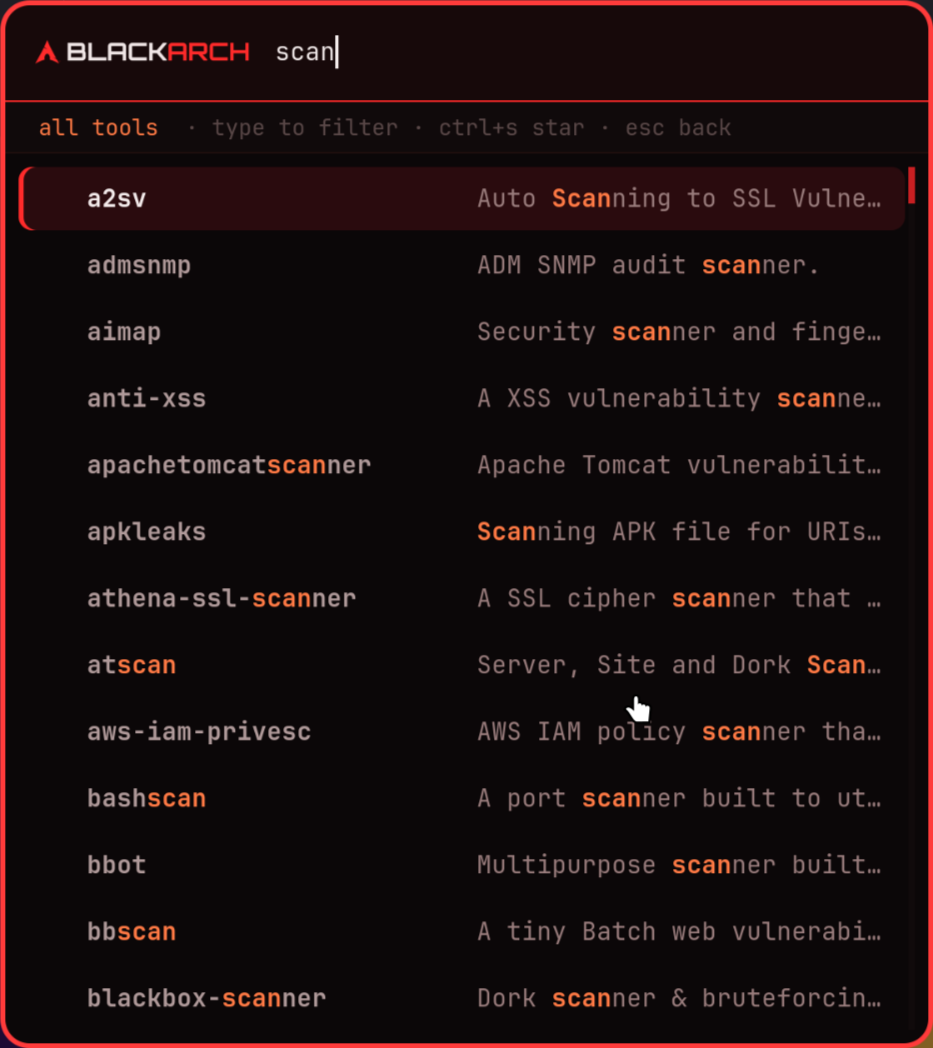
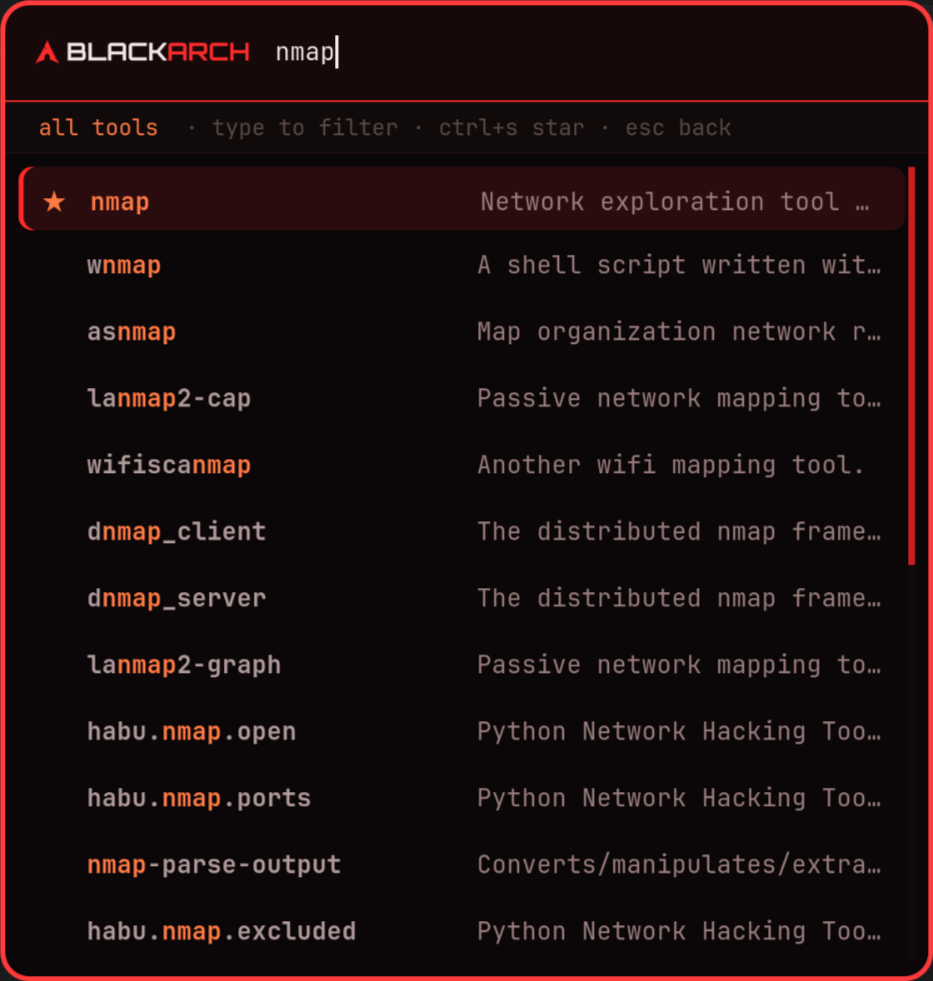
docs(assets): screenshots show the current search
The search shot still showed the old behaviour -- "scan" matching
descriptions, with the highlight landing inside blurbs like "Auto
Scanning to SSL Vulne...". Retaken against the current build: a name
search where the exact match is the top row and the descriptions are
there to read but not to match.

The main box shot was retaken too; it still claimed 4181 tools, from
before the catalogue merge brought that up to 4311.

diff --git a/README.md b/README.md
@@ -24,7 +24,7 @@ first.
 
 <div align="center">
 
-| The default view — favorites, recents, categories | Typing searches every tool |
+| The main box — search, favorites, recents, categories | Searching by name — exact match first |
 |:---:|:---:|
 | <img src="assets/menu.png" width="420"> | <img src="assets/menu-tools.png" width="420"> |
 
